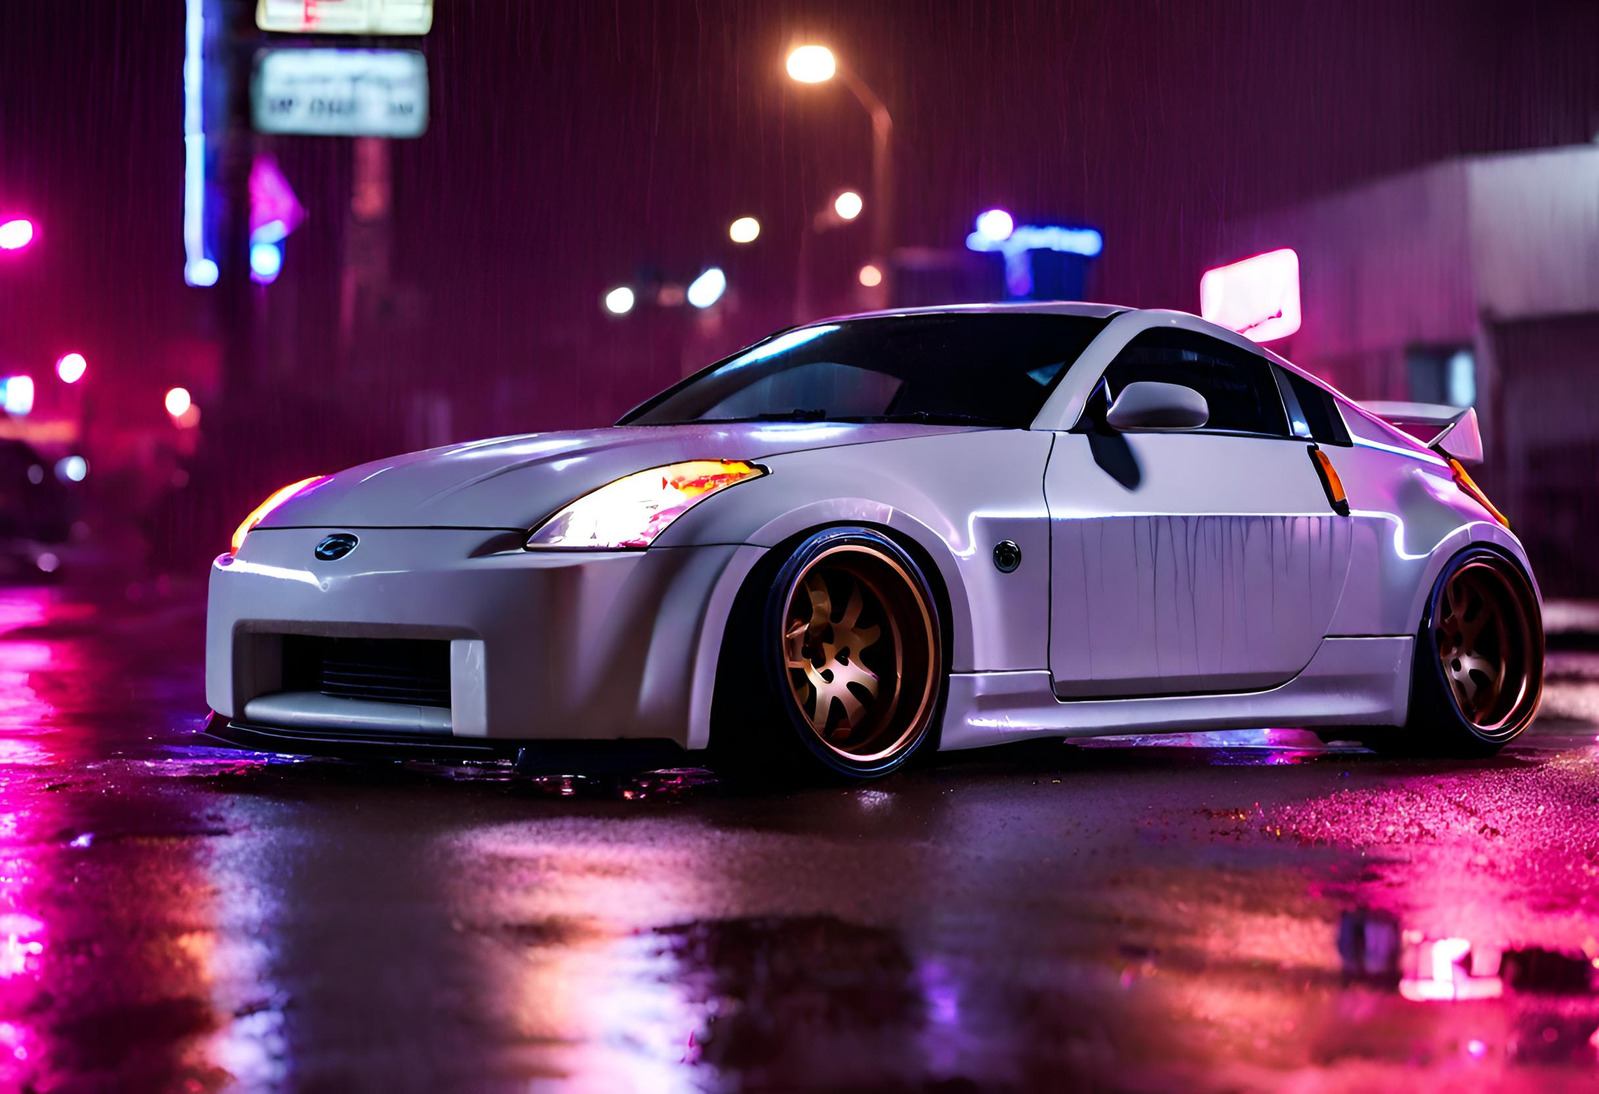
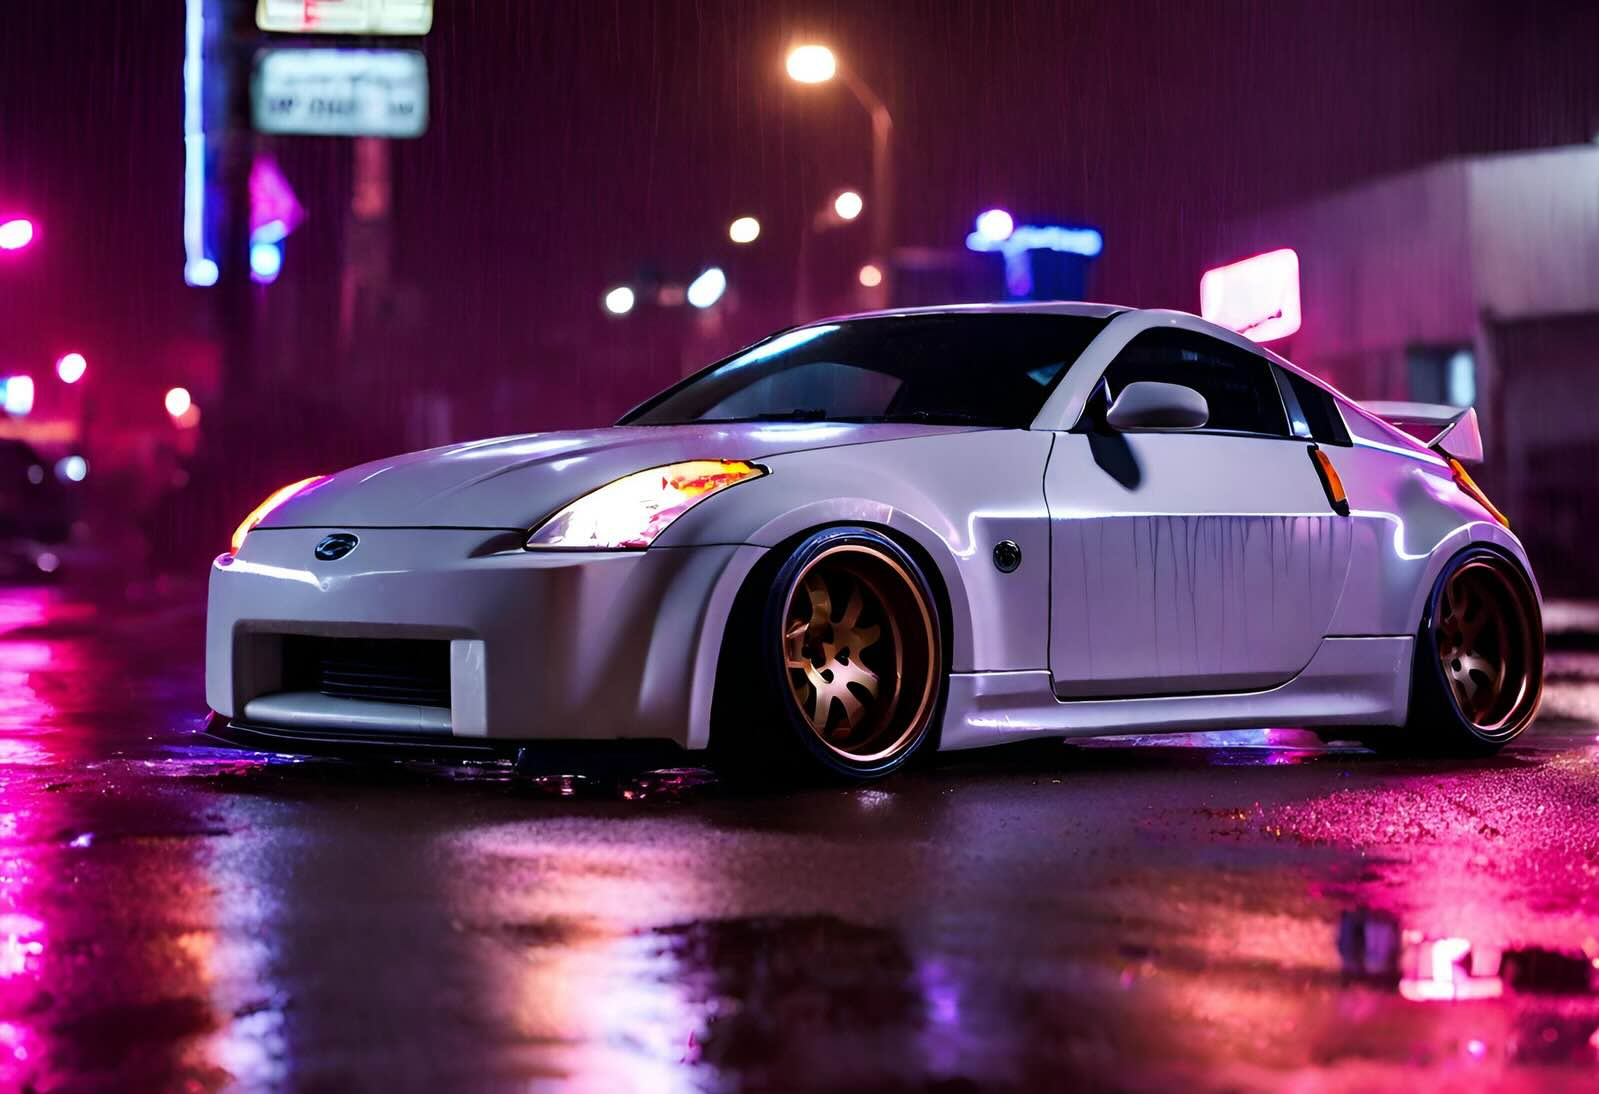
Optomize images for GH CLI blog
Many of these files were very large and unoptimized. Shifting to a
.jpg instead of .png resulted in minor quality loss but a huge amount
of file save savings.

diff --git a/src/content/blog/ghcli-4-building-custom-github-cli-commands.md b/src/content/blog/ghcli-4-building-custom-github-cli-commands.md
@@ -18,26 +18,26 @@ A good first step is to identify the [top-level command](https://cli.github.com/
 Start with `gh pr create`. You'll encounter an interactive shell UI that asks a few questions:
 
 First, select the repository. Simply hit Enter on your desired option.
-![Entering `gh pr` in the terminal](./assets/ghcli-4-gh-pr-create.png)
+![Entering `gh pr` in the terminal](./assets/ghcli-4-gh-pr-create.jpg)
 
 Next, you'll be prompted to provide a title for your PR.
-![Interactive UI for creating a PR title](./assets/ghcli-4-gh-pr-create-title.png)
+![Interactive UI for creating a PR title](./assets/ghcli-4-gh-pr-create-title.jpg)
 
 After entering the title, you're given the option to write a description. Pressing the "e" key opens your editor to write the PR description. Alternatively, hitting Enter skips this step and moves directly to pushing the PR.
 
-![Interactive UI for creating a PR description](./assets/ghcli-4-gh-pr-create-body.png)
+![Interactive UI for creating a PR description](./assets/ghcli-4-gh-pr-create-body.jpg)
 
 As shown below, I have my editor set up to open a new document in VS Code. Editing, saving, and closing this document will save your draft. Don't worry if yours uses doesn't look like mine, I'll cover more of this later on.
 
-![Using code --wait as a PR editing tool.](./assets/ghcli-4-gh-pr-create-editor.png)
+![Using code --wait as a PR editing tool.](./assets/ghcli-4-gh-pr-create-editor.jpg)
 
 After closing the temporary document, the terminal will display the "What's Next" section. Here, you can finalize your PR, such as submitting it as a draft.
 
-![Submitting your PR as a draft interactive UI](./assets/ghcli-4-gh-pr-submit-as-draft.png)
+![Submitting your PR as a draft interactive UI](./assets/ghcli-4-gh-pr-submit-as-draft.jpg)
 
 You'll then see a confirmation with details about your newly created draft PR.
 
-![Confirmation displayed once the PR has been submitted](./assets/ghcli-4-gh-pr-create-confirmation.png)
+![Confirmation displayed once the PR has been submitted](./assets/ghcli-4-gh-pr-create-confirmation.jpg)
 
 We can further interact with the PR using the `gh pr view` command, adding the PR number.
 
@@ -56,7 +56,7 @@ When uncertain about how to execute a specific task in the GitHub CLI, the websi
 
 Below is an image showing the [filtered search](https://github.com/cli/cli/issues?q=is%3Aissue+is%3Aopen+auth+token) based on our scenario.
 ![[Screenshot 2023-11-09 at 4.07.09 PM.png]]
-![Initial run of `gh search issues` command showing 3906 results](./assets/ghcli-4-gh-search-issues.png)
+![Initial run of `gh search issues` command showing 3906 results](./assets/ghcli-4-gh-search-issues.jpg)
 
 ### Try:
 Let's break down the process to put together an initial command.

diff --git a/src/content/blog/ghcli-7-setting-a-custom-editor-for-the-github-cli.md b/src/content/blog/ghcli-7-setting-a-custom-editor-for-the-github-cli.md
@@ -18,7 +18,7 @@ Write your PR directly in the shell with Vim.
 gh config set editor vim
 ```
 
-![Editing commits with Vim](./assets/ghcli-7-commit-editor.png)
+![Editing commits with Vim](./assets/ghcli-7-commit-editor.jpg)
 
 ## Code Wait
 This option opens a temporary document in your default code editor. Changes must be saved, and once the document is closed, you can proceed with uploading the PR to GitHub.
@@ -31,7 +31,7 @@ _Note: The `--wait` flag tells the UI to wait for the editor before proceeding._
 gh config set editor "code --wait"
 ```
 
-![Editing commits with VS Code using code --wait](./assets/ghcli-7-commi-code-wait.png)
+![Editing commits with VS Code using code --wait](./assets/ghcli-7-commi-code-wait.jpg)
 
 ## SSH
 Change your protocol to SSH or HTTPS.
@@ -48,7 +48,7 @@ gh config set prompt enabled
 
 By default, this option is enabled when the GitHub CLI is installed, allowing users to utilize interactive prompts.
 
-![GH CLI interactive prompts allow the interactive UI within terminal](./assets/ghcli-7-interactive-prompts.png)
+![GH CLI interactive prompts allow the interactive UI within terminal](./assets/ghcli-7-interactive-prompts.jpg)
 
 Disable:
 ```shell
@@ -57,7 +57,7 @@ gh config set prompt disabled
 
 Disabling the prompt requires additional flags for commands that the interactive UI would normally set up.
 
-![Disable the GH CLI interactive prompts allows for fast updates with preconfigured commands](./assets/ghcli-7-interactive-prompts-disabled.png)
+![Disable the GH CLI interactive prompts allows for fast updates with preconfigured commands](./assets/ghcli-7-interactive-prompts-disabled.jpg)
 
 ## Custom Configuration
 It’s worth mentioning that you can configure your default editor to work with other applications on your machine. However, compatibility and functionality might vary. Here's how I configured my editor to use Nota MD:

diff --git a/src/content/blog/ghcli-1-installing-and-authorizing-the-GitHubCLI.md b/src/content/blog/ghcli-1-installing-and-authorizing-the-GitHubCLI.md
@@ -70,7 +70,7 @@ Select the "Browser" option, and you'll be given a one-time code to use in your 
 ```shell
 ? How would you like to authenticate GitHub CLI? Login with a web browser
 ```
-![Giving access to GitHub CLI.](./assets/ghcli-1-access-auth.png)
+![Giving access to GitHub CLI.](./assets/ghcli-1-access-auth.jpg)
 
 After hitting "Authorize," your terminal should update, confirming the successful authentication:
 
@@ -117,11 +117,11 @@ After selecting the "Login with a web browser" option, a one-time code will disp
 ? How would you like to authenticate GitHub CLI? Login with a web browser
 ```
 
-![Activating your device with the authorization code in the terminal](./assets/ghcli-1-device-activation.png)
+![Activating your device with the authorization code in the terminal](./assets/ghcli-1-device-activation.jpg)
 
 Once you've entered the code from the terminal and clicked "Continue," an authorization page will appear.
 
-![Giving access to GitHub CLI.](./assets/ghcli-1-access-auth.png)
+![Giving access to GitHub CLI.](./assets/ghcli-1-access-auth.jpg)
 
 Click "Authorize" to complete the authentication process.
 

diff --git a/src/content/blog/ghcli-3-deconstructing-and-building-commands.md b/src/content/blog/ghcli-3-deconstructing-and-building-commands.md
@@ -12,7 +12,7 @@ Now that we have a functioning repository from the previous lesson, we're ready 
 The primary alias for interacting with the GitHub CLI is `gh`. Executing `gh` alone will display a high-level overview of all available commands, as shown in the screenshot below.
 
 ![[Screenshot 2023-11-09 at 8.38.41 PM.png]]
-![example stuff](./assets/ghcli-3-gh-base-command.png)
+![example stuff](./assets/ghcli-3-gh-base-command.jpg)
 
 Scrolling down, there’s a useful guide that shows an overview on the command syntax:
 
